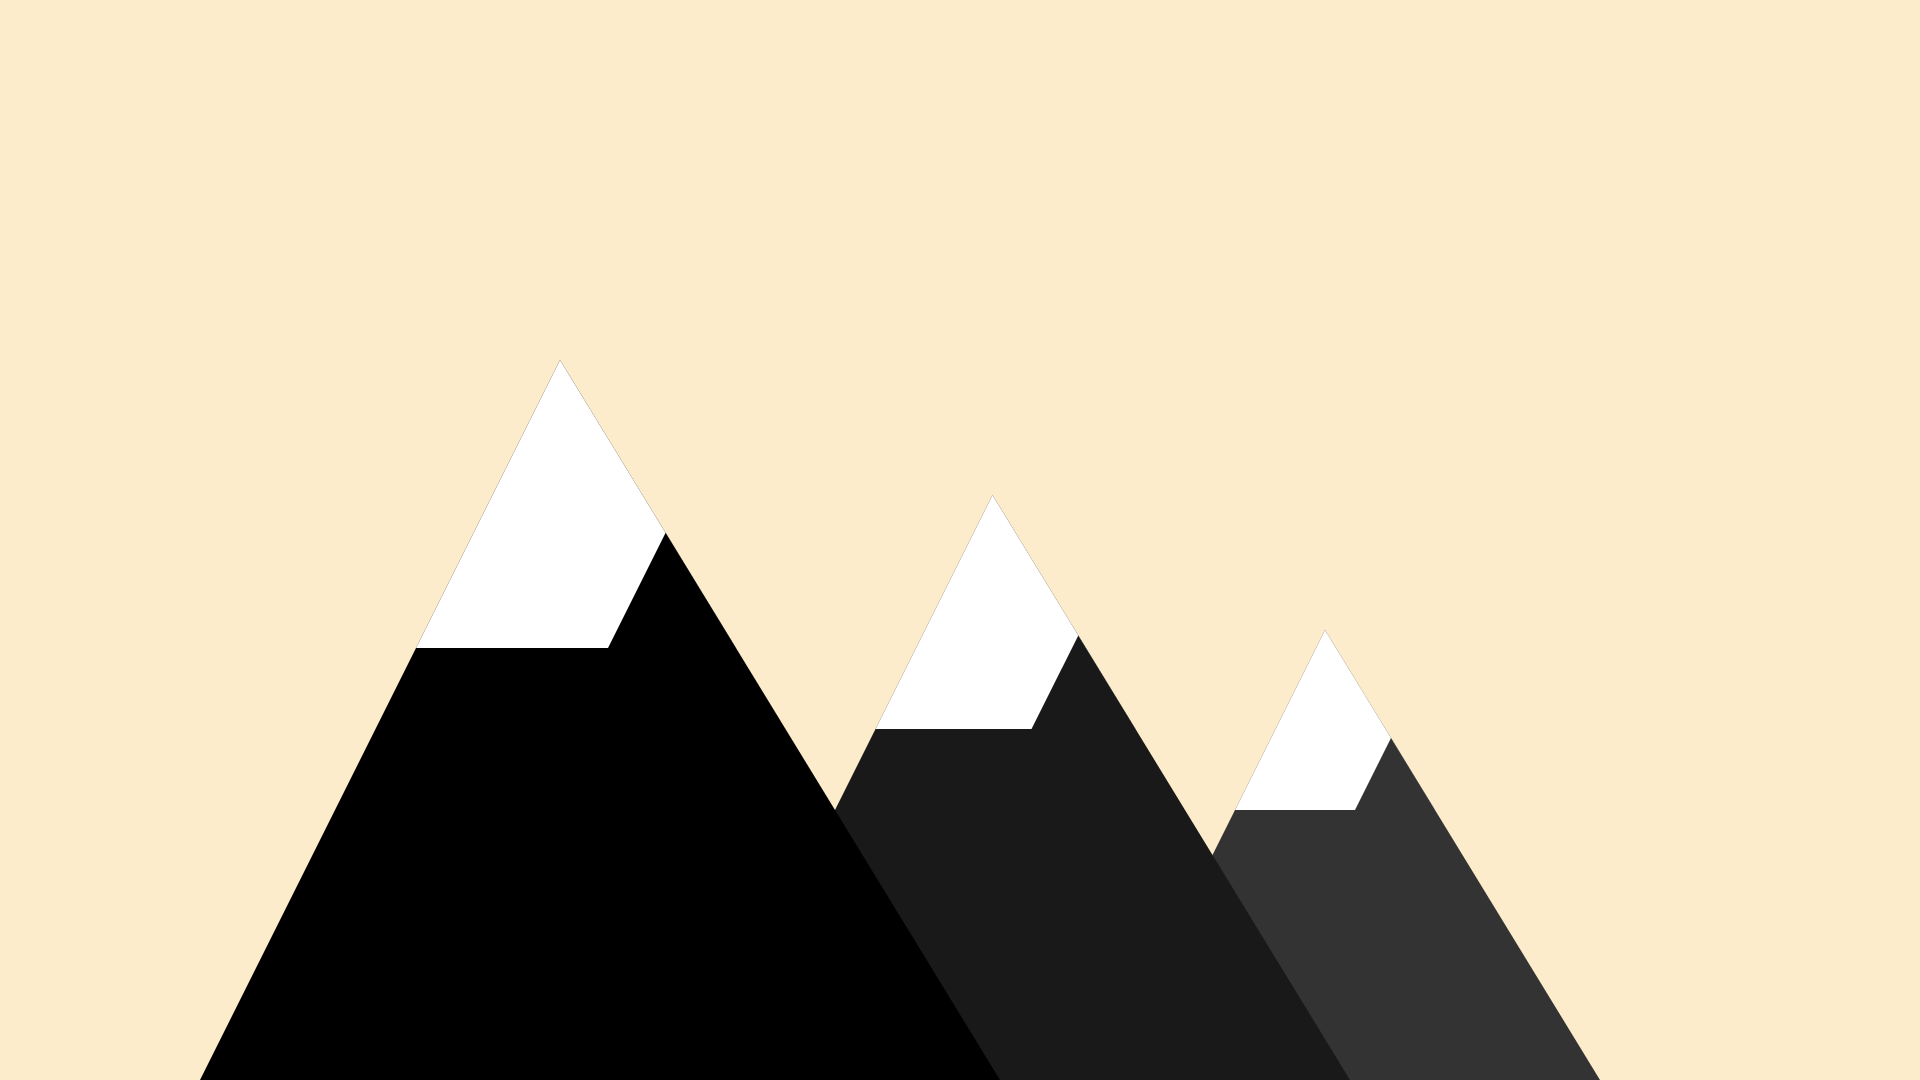
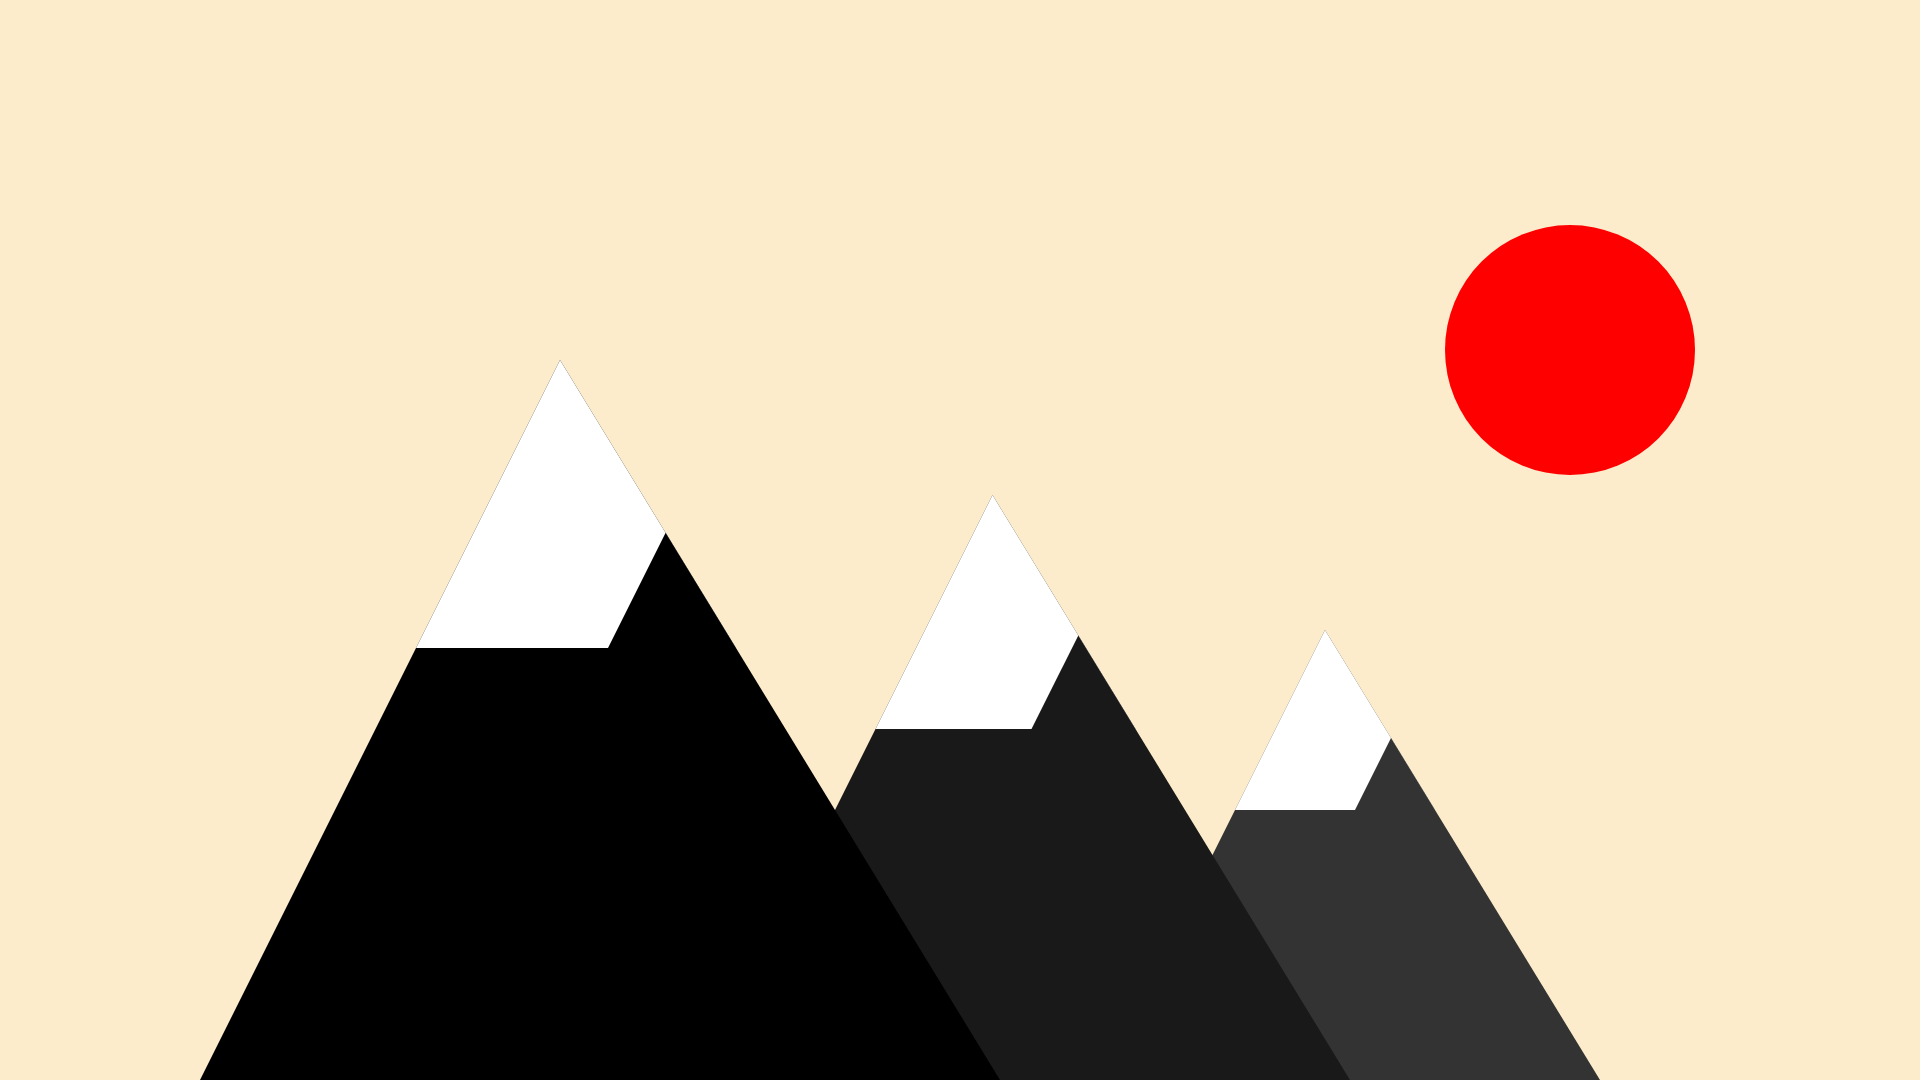
Add sun to mountain

Changed region(s): [[0.75, 0.1833, 0.9062, 0.4583]]

diff --git a/src/mountain.rs b/src/mountain.rs
@@ -58,6 +58,10 @@ pub fn draw(canvas: &mut Canvas) {
         &mut paint,
         0,
     );
+
+    let sun_position = (canvas.width() - 350.0, 350.0);
+    paint.set_color(Color::RED);
+    canvas.draw_circle(sun_position, 125.0, &paint);
 }
 
 fn draw_mountain(
